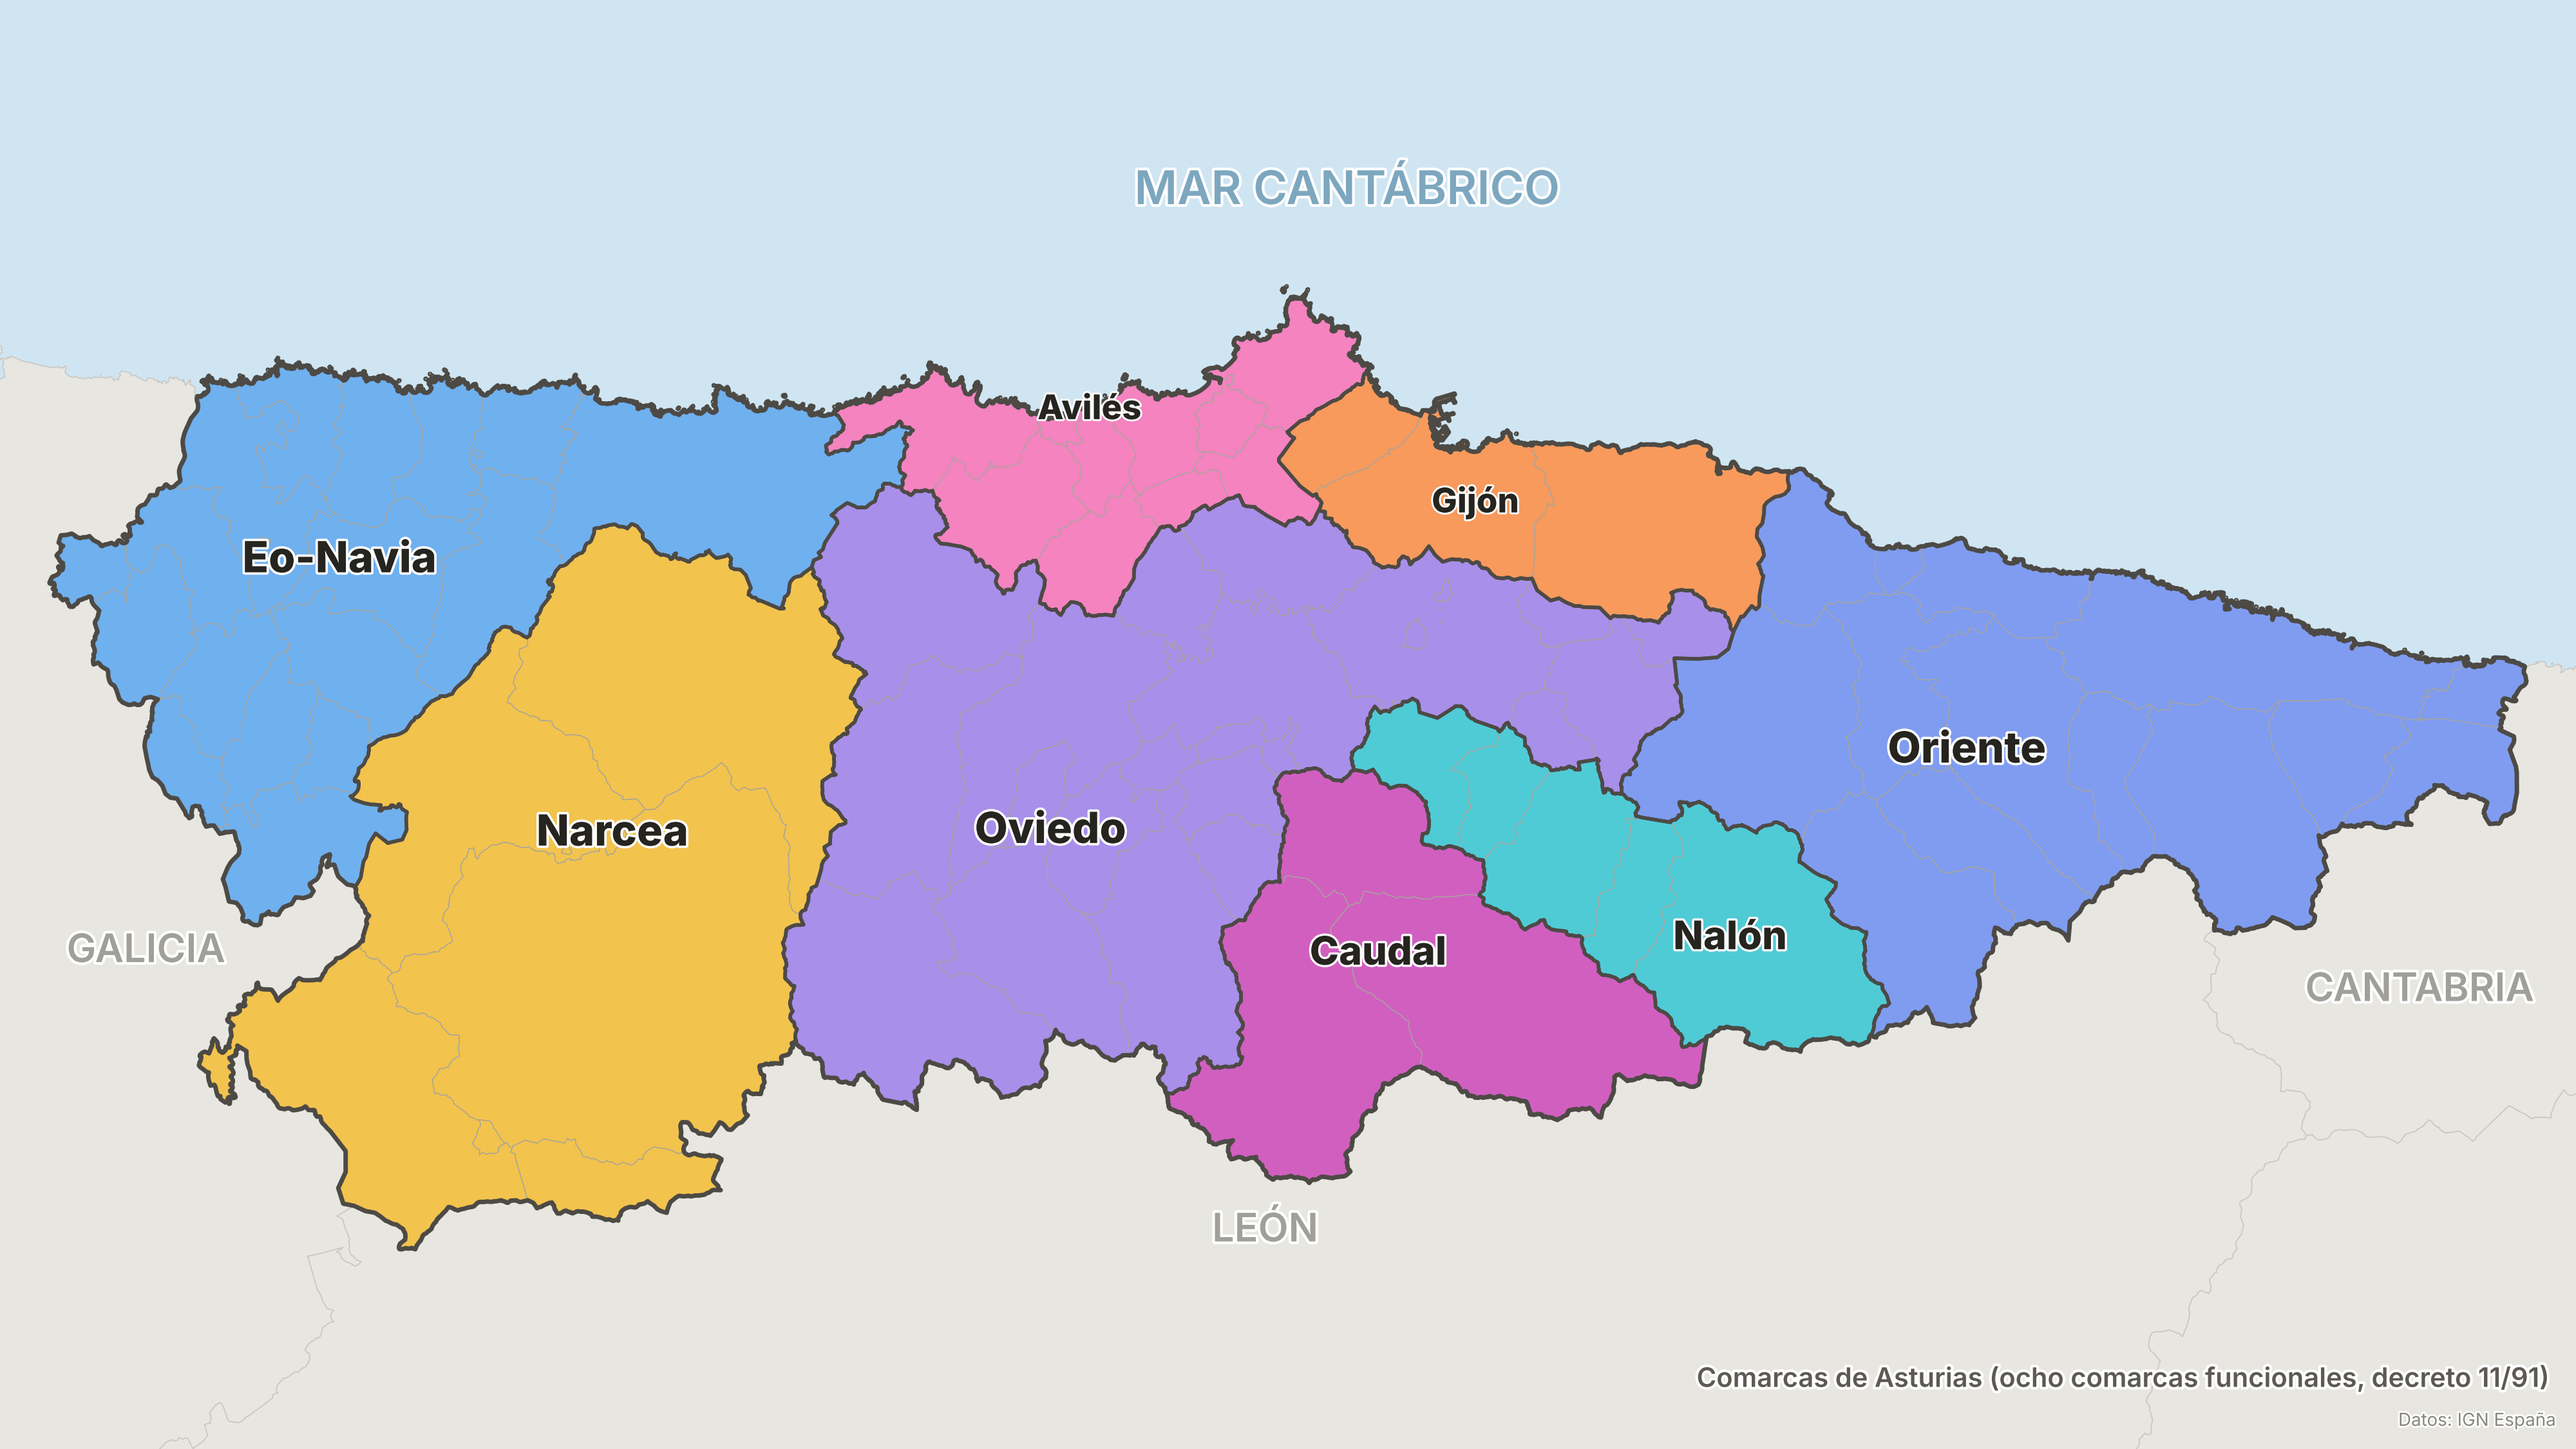
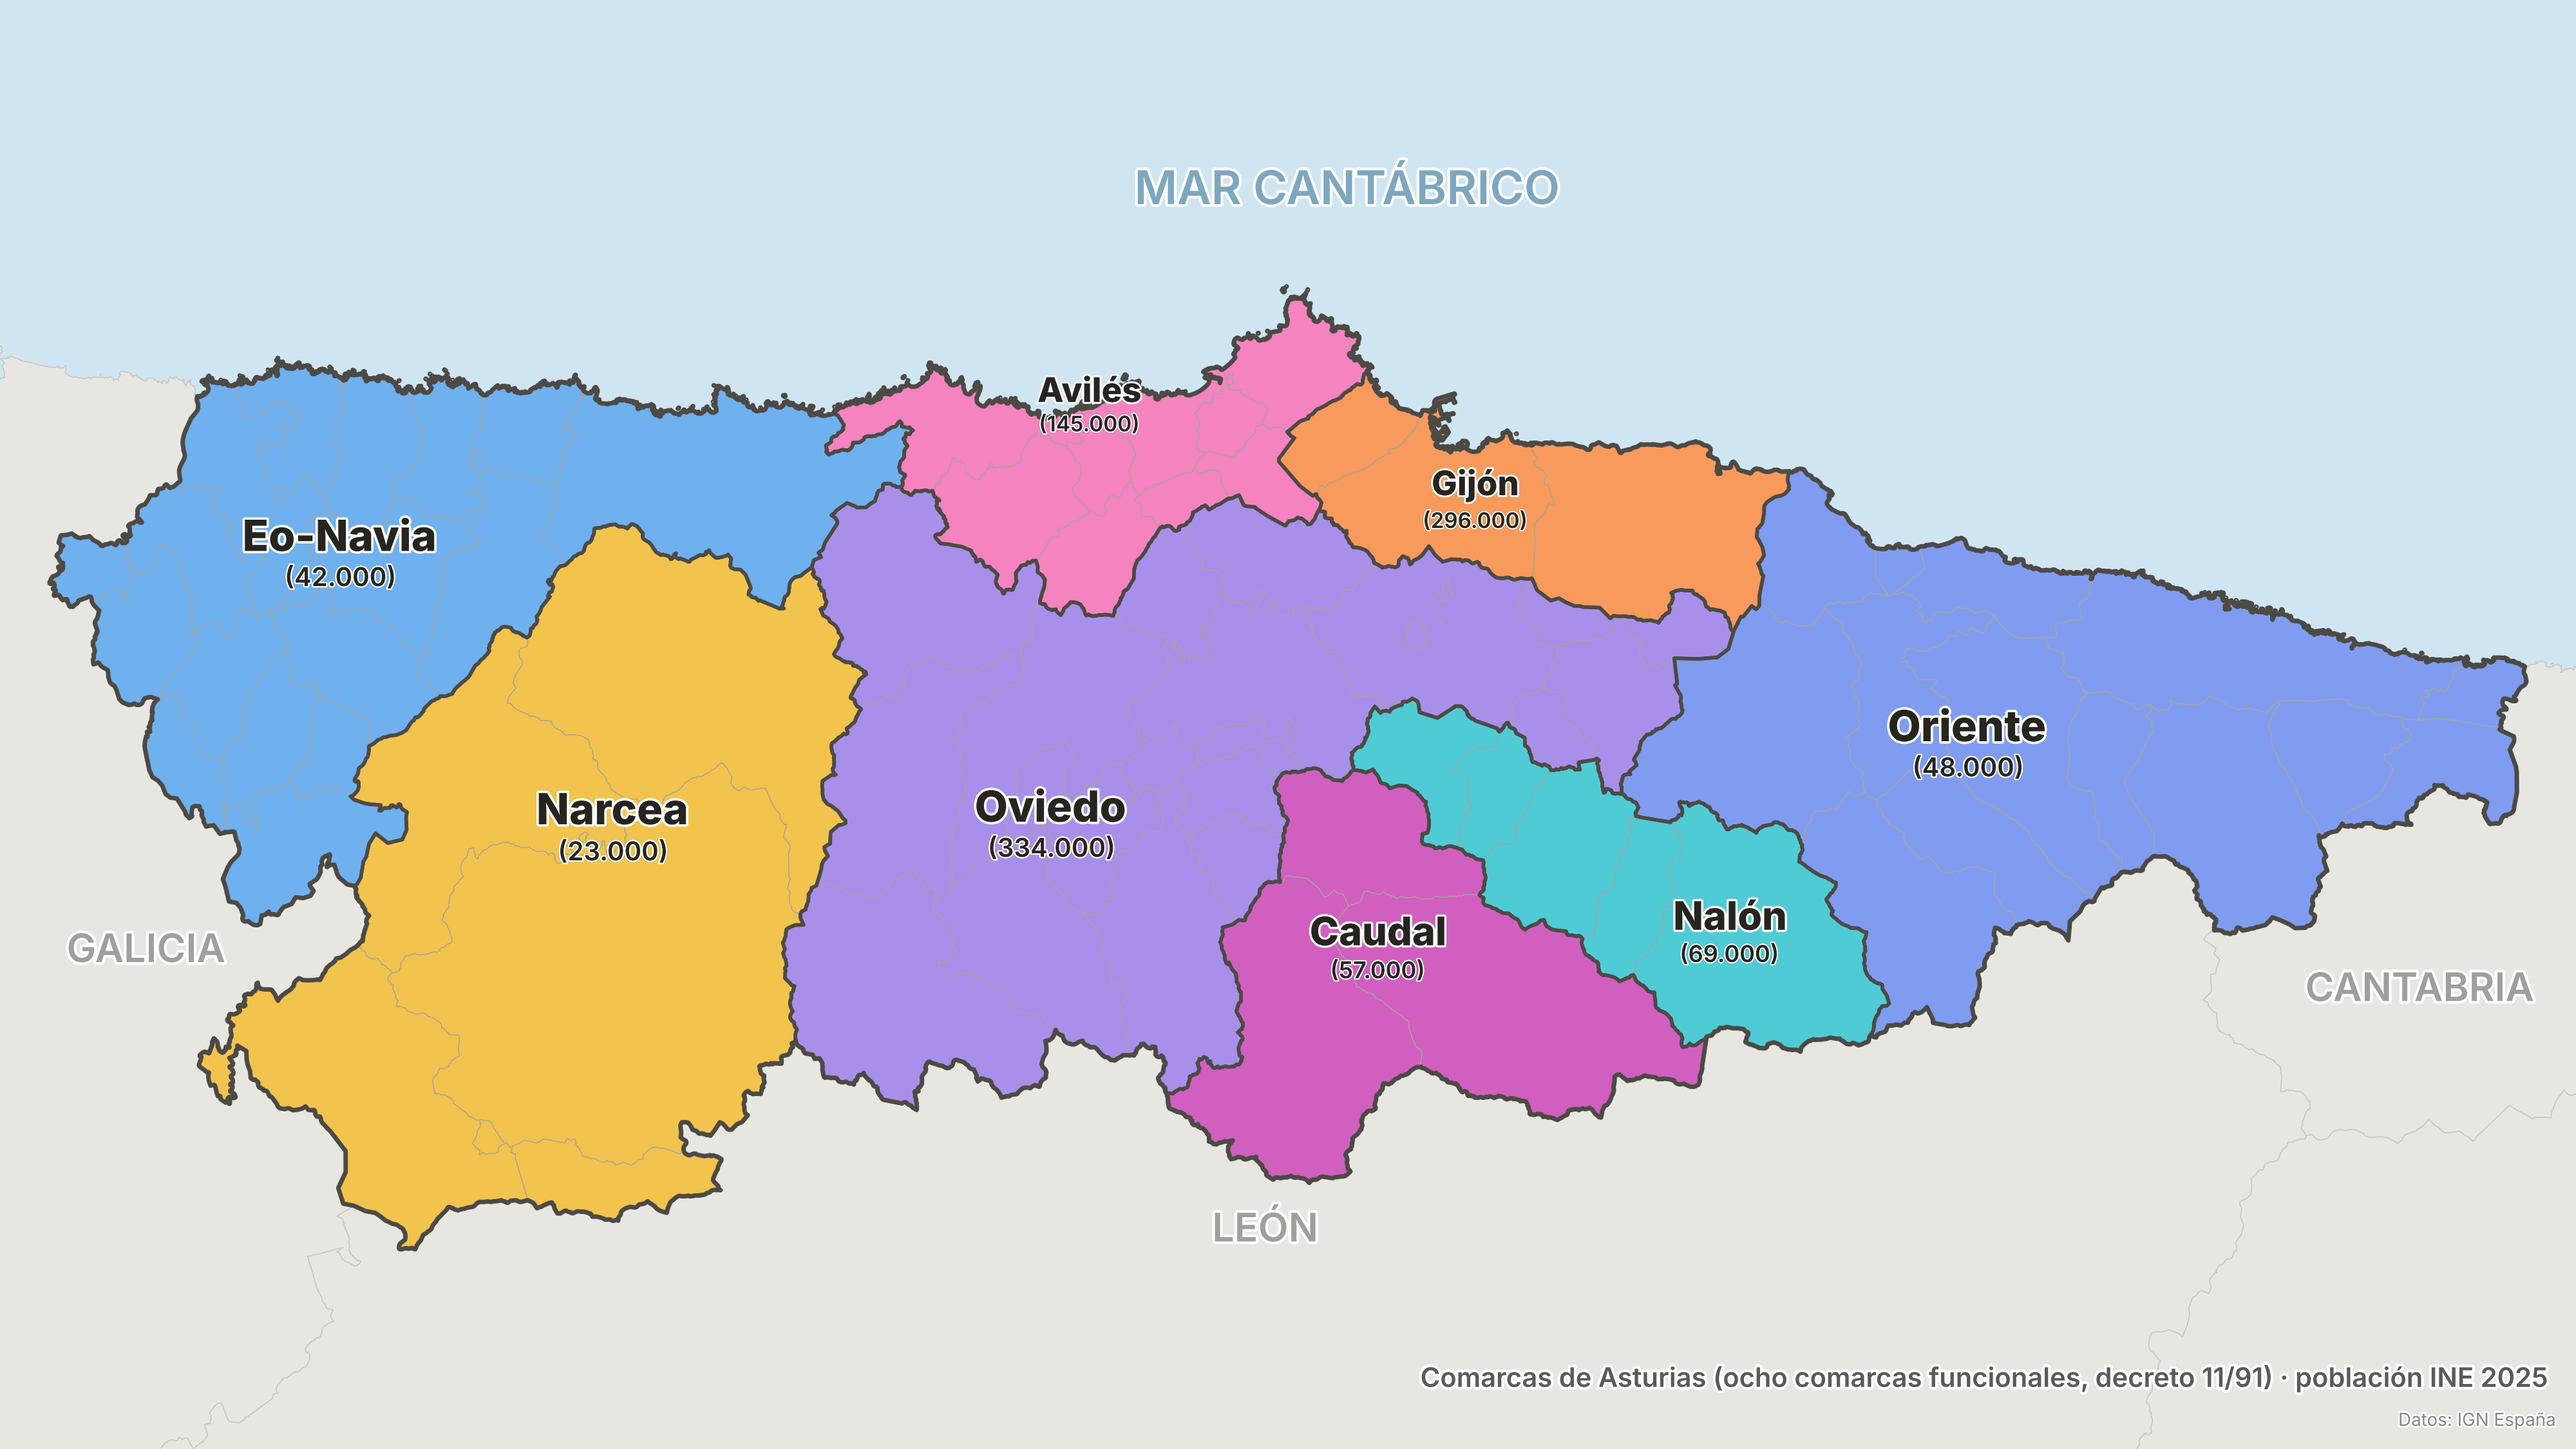
Add population (INE 2025, nearest thousand) to the comarcas map
Per-concejo padrón table for all 78 concejos in cities.py, summed per
comarca and drawn as a second line under each name in all three themes.

Claude-Session: https://claude.ai/code/session_01PuyCV6JRnjupUSvtabP3HW

diff --git a/tvmaps/cities.py b/tvmaps/cities.py
@@ -137,6 +137,97 @@ ASTURIAS_COMARCAS = {
 }
 
 
+# Padrón population of every concejo of Asturias, INE 1 January 2025
+# (tabla 2886, "Asturias: Población por municipios y sexo",
+# https://www.ine.es/jaxiT3/Tabla.htm?t=2886). Names as in ASTURIAS_COMARCAS.
+# Total: 1 013 529 (Asturias). Used to sum populations per comarca.
+CONCEJO_POPULATION = {
+    "Allande": 1_506,
+    "Aller": 10_011,
+    "Amieva": 591,
+    "Avilés": 75_517,
+    "Belmonte de Miranda": 1_366,
+    "Bimenes": 1_639,
+    "Boal": 1_372,
+    "Cabrales": 1_884,
+    "Cabranes": 1_094,
+    "Candamo": 1_902,
+    "Cangas de Onís": 6_344,
+    "Cangas del Narcea": 11_282,
+    "Caravia": 486,
+    "Carreño": 10_292,
+    "Caso": 1_437,
+    "Castrillón": 21_998,
+    "Castropol": 3_202,
+    "Coaña": 3_321,
+    "Colunga": 3_143,
+    "Corvera de Asturias": 15_785,
+    "Cudillero": 4_867,
+    "Degaña": 768,
+    "El Franco": 3_728,
+    "Gijón": 269_894,
+    "Gozón": 10_407,
+    "Grado": 9_681,
+    "Grandas de Salime": 767,
+    "Ibias": 1_084,
+    "Illano": 277,
+    "Illas": 1_048,
+    "Langreo": 38_612,
+    "Las Regueras": 1_892,
+    "Laviana": 12_352,
+    "Lena": 10_382,
+    "Llanera": 14_020,
+    "Llanes": 13_486,
+    "Mieres": 36_373,
+    "Morcín": 2_460,
+    "Muros de Nalón": 1_955,
+    "Nava": 5_244,
+    "Navia": 8_031,
+    "Noreña": 5_131,
+    "Onís": 739,
+    "Oviedo": 223_968,
+    "Parres": 5_150,
+    "Pesoz": 134,
+    "Peñamellera Alta": 500,
+    "Peñamellera Baja": 1_194,
+    "Piloña": 6_716,
+    "Ponga": 576,
+    "Pravia": 7_792,
+    "Proaza": 686,
+    "Quirós": 1_142,
+    "Ribadedeva": 1_693,
+    "Ribadesella": 5_591,
+    "Ribera de Arriba": 1_852,
+    "Riosa": 1_686,
+    "Salas": 4_771,
+    "San Martín de Oscos": 337,
+    "San Martín del Rey Aurelio": 15_531,
+    "San Tirso de Abres": 396,
+    "Santa Eulalia de Oscos": 420,
+    "Santo Adriano": 281,
+    "Sariego": 1_252,
+    "Siero": 53_049,
+    "Sobrescobio": 838,
+    "Somiedo": 1_031,
+    "Soto del Barco": 3_801,
+    "Tapia de Casariego": 3_538,
+    "Taramundi": 545,
+    "Teverga": 1_495,
+    "Tineo": 8_679,
+    "Valdés": 10_776,
+    "Vegadeo": 3_928,
+    "Villanueva de Oscos": 244,
+    "Villaviciosa": 15_379,
+    "Villayón": 1_054,
+    "Yernes y Tameza": 134,
+}
+
+
+def comarca_population(comarca: str) -> int:
+    """Padrón population of a functional comarca (sum of its concejos)."""
+    return sum(CONCEJO_POPULATION[c] for c in ASTURIAS_COMARCAS[comarca])
+
+
 def format_population(n: int) -> str:
     """Round to the nearest thousand, Spanish thousands separators."""
     rounded = round(n / 1000) * 1000

diff --git a/tvmaps/maps_asturias.py b/tvmaps/maps_asturias.py
@@ -157,8 +157,8 @@ COMARCA_NAME_ALIASES = {"Tapia de Casariego": "Tapia"}
 # Comarca colors live in style.py (both themes), keyed by comarca name; every
 # pair of neighbouring comarcas differs clearly in hue.
 
-# Label tuning per comarca; the small coastal comarcas (Avilés, Gijón) get
-# leader-line callouts into the sea. Offsets in km.
+# Label tuning per comarca. Offsets in km. The tight coastal comarcas
+# (Avilés, Gijón) keep smaller names nudged into their widest part.
 COMARCA_LABELS = {
     "Eo-Navia": Label(48),
     "Narcea": Label(48),
@@ -169,6 +169,22 @@ COMARCA_LABELS = {
     "Nalón": Label(44),
     "Oriente": Label(48),
 }
+
+
+def _comarca_labels(ax, com, frame):
+    """Comarca name plus its padrón population (rounded to the nearest
+    thousand) on a second, smaller line, both centred on the tuned anchor."""
+    m_per_pt = (frame[2] - frame[0]) / style.WIDTH_PX * style.DPI / 72.0
+    for _, row in com.iterrows():
+        name = row.comarca
+        spec = COMARCA_LABELS[name]
+        x, y = geo.label_point(row.geometry)
+        x, y = x + spec.dx * KM, y + spec.dy * KM
+        pop = f"({cities.format_population(cities.comarca_population(name))})"
+        pop_size = max(24, round(spec.size * 0.6))
+        gap = 0.62 * (spec.size + pop_size) * m_per_pt  # between line centres
+        draw.halo_text(ax, x, y + gap / 2, name, spec.size, weight="extrabold")
+        draw.halo_text(ax, x, y - gap / 2, pop, pop_size, weight="semibold")
 
 
 def _comarcas_gdf(conc):
@@ -197,11 +213,11 @@ def render_asturias_comarcas():
     draw.draw_layer(ax, com, "none", style.BORDER_DARK, 4.0, zorder=3)
     draw.draw_layer(ax, conc.dissolve(), "none", style.BORDER_DARK, 5.0, zorder=3)
 
-    _label_regions(ax, com, "comarca", lambda c, r: c, COMARCA_LABELS)
+    _comarca_labels(ax, com, s["frame"])
     _neighbor_labels(ax, s["frame"])
     draw.draw_footer(ax, s["frame"],
                      "Comarcas de Asturias (ocho comarcas funcionales, "
-                     "decreto 11/91)")
+                     "decreto 11/91) · población INE 2025")
     draw.draw_attribution(ax, s["frame"], "Datos: IGN España")
     return draw.save(fig, "asturias-comarcas")
 
